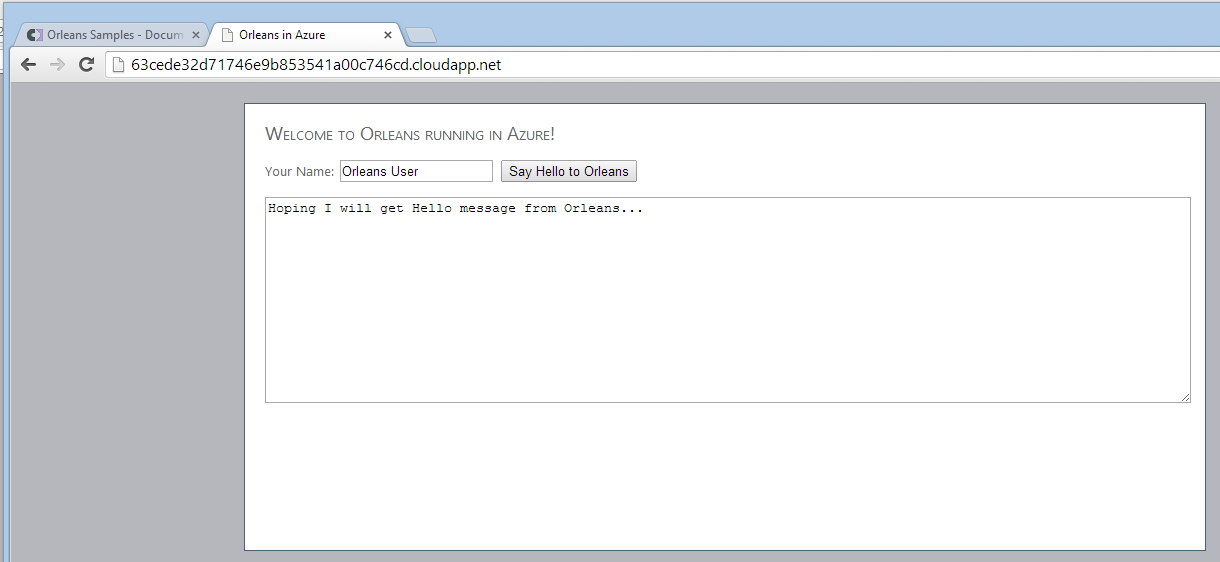
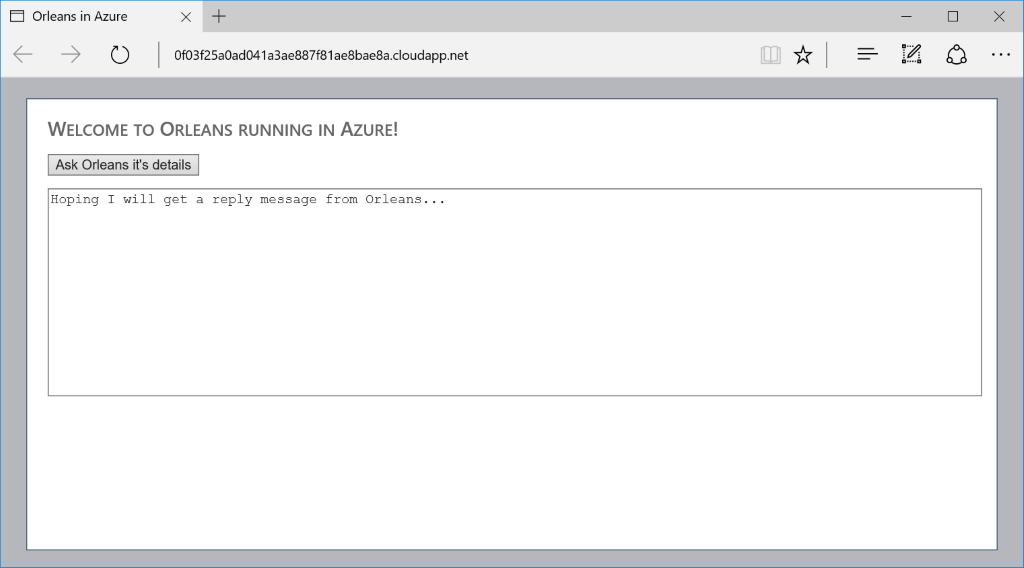
Fix Azure Web Sample page that was out-of-date

Changed region(s): [[0.0, 0.0, 1.0, 1.0]]

diff --git a/Samples-Overview/Azure-Web-Sample.md b/Samples-Overview/Azure-Web-Sample.md
@@ -6,22 +6,22 @@ title: Azure Web Sample
 
 **Important note**: Worker and web role instances are not automatically removed or disabled, even when they go unused for a long time. To avoid a nasty surprise when your Azure bill comes, make sure to delete the instances after you have finished testing the application!
 
-This sample is essentially the same as the [Hello World](Hello-World) sample, except that it hosts the grains in an Azure Worker Role instead of in the client process itself.
+This sample is almost the same as the [Hello World](Hello-World) sample, except that it hosts the grains in an Azure Worker Role instead of in the client process itself.
 
 While the communication interface and grain implementation are identical, three projects replace the client:
 
-**OrleansAzureSample**, which is the Azure configuration project.
-**OrleansAzureSilos**, the Worker Role integration logic that hosts the Orleans silo in the cloud.
-**WebRole**, which provides a simple HTML UI for the Orleans backend.
+- **OrleansAzureSample**, which is the Azure configuration project.
+- **OrleansAzureSilos**, the Worker Role integration logic that hosts the Orleans silo in the cloud.
+- **WebRole**, which provides a simple HTML UI for the Orleans backend.
 
-##Run AzureWebSample Locally
+## Run AzureWebSample Locally
 
 The sample is configured to run inside of the Azure Compute Emulator on your desktop by default, so make sure that **OrleansAzureSample** is set as the **Startup Project** in this solution and just press F5 to build and run the sample locally. 
 
 You do not need to start Visual Studio with administrative privileges to run this sample in the emulator - it is designed to use both **IIS Express** and **Express Emulator**, so make sure these options are selected in OrleansAzureSample->Properties->Web. 
 You may also need to select the "Use IIS Express for web sites and projects" in Tools->Options->Projects and Solutions->Web Projects. 
 
-##Run AzureWebSample in Azure Cloud
+## Run AzureWebSample in Azure Cloud
 
 To get the sample running in the Azure cloud, open the `ServiceConfiguration.Cloud.cscfg` file in the OrleansAzureSample project.
 
@@ -39,7 +39,7 @@ This means that the site and its backend are ready. Start a web browser and navi
 ![](AzureSample 1.png)
 
 
- Enter a greeting and wait for the response. The first time you interact with the site, it may take a few seconds, since the whole system need to warm up. After that first greeting, it should go quickly.
+Click on "Ask Orleans it's details" and wait for the response. The first time you interact with the site, it may take a few seconds, since the whole system need to warm up. After that first message, it should go quickly.
 
 ![](AzureSample 2.png)
 
